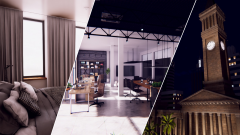
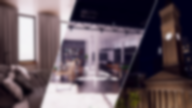
Improve display lazy loading of images

diff --git a/src/components/ProjectDetailsBanner.js b/src/components/ProjectDetailsBanner.js
@@ -10,43 +10,52 @@ const ProjectDetailsBanner = (props) => {
 
     const [isLoaded, setIsLoaded] = useState(false);
     const bannerImageStyle = {
-        opacity: isLoaded ? props.bannerOpacity : 0, 
-        transition: 'opacity 0.1s ease-in-out', 
+        opacity: isLoaded ? 1 : 0, 
+        transition: 'opacity 0.5s ease-in-out', 
         transform: `translateY(${props.isMobile ? props.bannerTransform.translateYMobile : props.bannerTransform.translateY}) 
                     translateX(${props.isMobile ? props.bannerTransform.translateXMobile : '0px'})`,
+    };
 
-    }
-    const bannerImageSmallStyle = {
+    const loadingBlurredBannerStyle = {
         backgroundImage: `url(${props.bannerImage.imgS})`,
-        backgroundPosition: `${props.isMobile ? props.bannerTransform.translateXMobile : '0px'} 
-                            ${props.isMobile ? props.bannerTransform.translateYMobile : props.bannerTransform.translateY}`,
-        backgroundRepeat: 'no-repeat',
-        backgroundSize: '170%',
-    }
+        backgroundSize: "max(100%, 1000px) auto",
+        backgroundRepeat: "no-repeat",
+        backgroundAttachment: " ", 
+        backgroundPosition: `${props.isMobile ? props.bannerTransform.translateXMobile : "0px"} 
+                                ${props.isMobile ? props.bannerTransform.translateYMobile : props.bannerTransform.translateY}`,
+    };      
 
     return (
         <div className='project-detail-banner' onClick={()=> navigate("/")}>
                 {props.isMobile ? 
                 <>
-                <img className='project-banner-img'
-                    src={props.bannerImage.imgL}
-                    alt=""
-                    style={bannerImageStyle}
-                    onLoad={() => setIsLoaded(true)}
-                />
-                <div style={{padding: '50px'}}>
-                    <ReturnArrow/>
+                <div className='blur-load' style={loadingBlurredBannerStyle}>
+                    <div className='image-overlay' style={{backgroundColor: `rgb(26, 32, 30, ${1 - props.bannerOpacity})`}}/>
+                    <img className='project-banner-img'
+                        src={props.bannerImage.imgL}
+                        alt=""
+                        style={bannerImageStyle}
+                        onLoad={() => setIsLoaded(true)}
+                    />
+                
+                <div style={{padding: '50px', zIndex: 10}}>
+                    <ReturnArrow style={{zIndex: 10}}/>
                     <Typography className='banner-title' variant='h3' style={{ textTransform: 'uppercase' , fontWeight: 'bold'}}>{props.title}</Typography>
+                </div>
                 </div>
                 </>
             :
             <>
-                <img className='project-banner-img'
-                    src={props.bannerImage.imgL}
-                    alt=""
-                    style={bannerImageStyle}
-                    onLoad={() => setIsLoaded(true)}
-                />
+                <div className='blur-load' style={loadingBlurredBannerStyle}>
+                    <div className='image-overlay' style={{backgroundColor: `rgb(26, 32, 30, ${1 - props.bannerOpacity})`}}/>
+                    <img className='project-banner-img'
+                        src={props.bannerImage.imgL}
+                        alt=""
+                        style={bannerImageStyle}
+                        onLoad={() => setIsLoaded(true)}
+                    />
+                </div>
+
                 <div className='banner-return'>
                     <ReturnArrow/>
                     <Typography

diff --git a/src/styles/project-details.css b/src/styles/project-details.css
@@ -20,6 +20,20 @@
     cursor: pointer;
 }
 
+.blur-load {
+    width: 100%;
+    height: 100%;
+}
+
+.image-overlay {
+    position: absolute;
+    width: 100%;
+    height: 100%;
+    background-size: cover;
+    background-position: center;
+    z-index: 1;
+  }
+
 .project-detail-banner svg {
     height: 35px;
     opacity: 0.8;
@@ -34,7 +48,6 @@
 
 .project-banner-img {
     width: 100%;
-    opacity: 0.8;
     min-width: 1000px;
     position: absolute;
 }
@@ -54,6 +67,7 @@
     bottom: 0;
     padding: 50px;
     transition: opacity 0.3s ease; 
+    z-index: 10;
 }
 
 .banner-return {
@@ -66,6 +80,7 @@
     flex-direction: row;
     gap: 20px;
     box-sizing: border-box;
+    z-index: 10;
 }
 
 .banner-return-text {
@@ -123,7 +138,7 @@
         justify-content: left;
         cursor: pointer;
     }
-
+    
     .banner-title {
         position: relative;
         padding: 0;
@@ -136,7 +151,6 @@
         box-sizing: border-box;
         margin-bottom: 10px;
     }
-    
 
     .project-detail-info-contianer {
         flex-direction: column;

diff --git a/src/components/data/ProjectDetailsData.js b/src/components/data/ProjectDetailsData.js
@@ -71,11 +71,11 @@ export const ProjectDetailsDTO = (t) => { return [
     },
     bannerTransform: {
       translateY: '-250px',
-      translateYMobile: '0px',
-      translateXMobile: '-350px',
+      translateYMobile: '-280px',
+      translateXMobile: '-0px',
     },
     bannerGradient: true,
-    bannerOpacity: 0.3,
+    bannerOpacity: 0.6,
     overview: t("vr-lenses.overview"),
     technologies: [
       { image: UnityLogo, text: "Unity" },

diff --git a/src/index.css b/src/index.css
@@ -450,7 +450,3 @@ code {
   animation: fadeOutTop 0.3s ease-out forwards; /* Smooth easing */
 
 }
-
-.blur-load {
-
-}
